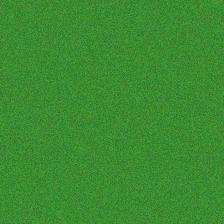
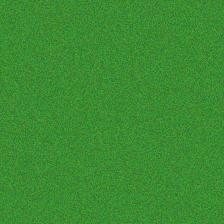
UI ready for testing

diff --git a/app.py b/app.py
@@ -1,0 +1,144 @@
+"""
+AgriSense — desktop app entry point.
+
+Runs a native webview window (no browser, no Chrome overhead) and exposes
+a JS-callable API that streams tokens from Ollama directly into the UI
+as they're generated.
+
+Memory footprint: ~80-150MB for the WebKitGTK window, vs 800MB-1.5GB
+for a Chrome-based Gradio setup.
+"""
+
+import json
+import threading
+import webview
+import requests
+
+from src.orchestrator import build_prompt_context, SYSTEM_PROMPT
+from src.llm import OLLAMA_BASE_URL, LLM_MODEL, is_ollama_running
+from src.vision import classify_leaf_image_from_base64
+
+
+class Api:
+    """
+    Exposed to JS as window.pywebview.api.*
+    Every public method here is callable directly from app.js.
+    """
+
+    def __init__(self):
+        self._window = None
+
+    def set_window(self, window):
+        self._window = window
+
+    # ---------- Status check ----------
+
+    def check_ollama_status(self):
+        running = is_ollama_running()
+        return {"running": running, "model": LLM_MODEL if running else None}
+
+    # ---------- Main streaming entry point ----------
+
+    def handle_query_stream(self, user_text: str, image_data_url: str | None):
+        """
+        Called from app.js. Runs orchestration (vision + RAG + DB lookups),
+        then streams the LLM response token-by-token back into the UI via
+        JS events. Runs in a background thread so the webview UI thread
+        never blocks.
+        """
+        thread = threading.Thread(
+            target=self._run_stream,
+            args=(user_text, image_data_url),
+            daemon=True,
+        )
+        thread.start()
+        return {"started": True}
+
+    def _run_stream(self, user_text: str, image_data_url: str | None):
+        try:
+            vision_tag = None
+            vision_result = None
+
+            # Run vision classification first if an image was attached
+            if image_data_url:
+                vision_result = classify_leaf_image_from_base64(image_data_url)
+                if vision_result and vision_result.get("confidence", 0) > 0.3:
+                    vision_tag = (
+                        f"Detected: {vision_result['label']} "
+                        f"({vision_result['confidence']:.0%} confidence)"
+                    )
+
+            # Build the full prompt using Phase 2-4 context (DB + RAG + vision)
+            full_prompt = build_prompt_context(user_text, vision_result)
+
+            # Signal the UI to swap skeleton -> live bubble
+            self._emit("agrisense:stream_start", {"visionTag": vision_tag})
+
+            # Stream directly from Ollama's /api/chat with stream=True
+            payload = {
+                "model": LLM_MODEL,
+                "messages": [
+                    {"role": "system", "content": SYSTEM_PROMPT},
+                    {"role": "user", "content": full_prompt},
+                ],
+                "stream": True,
+                "options": {
+                    "temperature": 0.3,
+                    "num_ctx": 2048,
+                    "num_predict": 512,
+                },
+            }
+
+            with requests.post(
+                f"{OLLAMA_BASE_URL}/api/chat",
+                json=payload,
+                stream=True,
+                timeout=180,
+            ) as resp:
+                resp.raise_for_status()
+                for line in resp.iter_lines():
+                    if not line:
+                        continue
+                    chunk = json.loads(line)
+                    token = chunk.get("message", {}).get("content", "")
+                    if token:
+                        self._emit("agrisense:stream_token", {"token": token})
+                    if chunk.get("done"):
+                        break
+
+            self._emit("agrisense:stream_end", {})
+
+        except requests.exceptions.ConnectionError:
+            self._emit(
+                "agrisense:stream_error",
+                {"message": "Can't reach Ollama. Run 'ollama serve' in a terminal and try again."},
+            )
+        except Exception as e:
+            self._emit("agrisense:stream_error", {"message": f"Error: {str(e)}"})
+
+    def _emit(self, event_name: str, detail: dict):
+        """Dispatch a CustomEvent in the webview's JS context."""
+        if not self._window:
+            return
+        detail_json = json.dumps(detail)
+        js = f"window.dispatchEvent(new CustomEvent('{event_name}', {{ detail: {detail_json} }}));"
+        self._window.evaluate_js(js)
+
+
+def main():
+    api = Api()
+    window = webview.create_window(
+        "AgriSense",
+        "ui/index.html",
+        js_api=api,
+        width=1180,
+        height=760,
+        min_size=(860, 560),
+        background_color="#FAFAF7",
+    )
+    api.set_window(window)
+    webview.start(debug=False)
+
+
+if __name__ == "__main__":
+    main()

diff --git a/src/database.py b/src/database.py
@@ -149,3 +149,97 @@ def get_full_crop_context(crop_name: str) -> str:
             lines.append(f"  - {p['region']}: ₦{p['price_per_kg_naira']}/kg | ₦{p['price_per_bag_naira']}/bag ({p['trend']}) — {p['market_name']}")
 
     return "\n".join(lines)
+
+
+def get_crop_info(crop_id_or_name) -> dict:
+    """Get general details for a crop by ID or name."""
+    if isinstance(crop_id_or_name, int):
+        conn = get_connection()
+        cur = conn.cursor()
+        cur.execute("SELECT * FROM crops WHERE id = ?", (crop_id_or_name,))
+        row = cur.fetchone()
+        conn.close()
+        return dict(row) if row else {}
+    else:
+        return get_crop_by_name(crop_id_or_name)
+
+
+def search_pest_by_name(name: str) -> dict:
+    """Look up a pest by name or local name."""
+    conn = get_connection()
+    cur = conn.cursor()
+    cur.execute("""
+        SELECT * FROM pests 
+        WHERE LOWER(name) LIKE LOWER(?) 
+           OR LOWER(local_name) LIKE LOWER(?)
+    """, (f"%{name}%", f"%{name}%"))
+    row = cur.fetchone()
+    conn.close()
+    return dict(row) if row else {}
+
+
+def get_pest_treatments(pest_id: int) -> list[dict]:
+    """Get all treatments for a pest by pest ID (alias for get_treatments_for_pest)."""
+    return get_treatments_for_pest(pest_id)
+
+
+def get_market_price(query: str) -> dict:
+    """
+    Search the query for crop and region mentions.
+    Returns the first matching market price as a dict, or {} if none.
+    """
+    # 1. Get all crops to search for their names in the query
+    crops = get_all_crops()
+    matched_crop = None
+    for crop in crops:
+        # Check if crop name or any of the local names are in the query
+        if crop['name'].lower() in query.lower():
+            matched_crop = crop
+            break
+        local_names = [n.strip() for n in crop.get('local_names', '').split(',') if n.strip()]
+        for ln in local_names:
+            if ln.lower() in query.lower():
+                matched_crop = crop
+                break
+                
+    if not matched_crop:
+        return {}
+        
+    # 2. Check if a region is mentioned
+    regions = ["Lagos", "Onitsha", "Ibadan", "Kano", "Abuja", "Kebbi", "Sokoto", "Kaduna"]
+    matched_region = None
+    for r in regions:
+        if r.lower() in query.lower():
+            matched_region = r
+            break
+            
+    # 3. Query market prices
+    conn = get_connection()
+    cur = conn.cursor()
+    if matched_region:
+        cur.execute("""
+            SELECT mp.*, c.name as crop_name FROM market_prices mp
+            JOIN crops c ON mp.crop_id = c.id
+            WHERE mp.crop_id = ? AND LOWER(mp.region) = LOWER(?)
+        """, (matched_crop['id'], matched_region))
+    else:
+        # Default to the first region available for that crop
+        cur.execute("""
+            SELECT mp.*, c.name as crop_name FROM market_prices mp
+            JOIN crops c ON mp.crop_id = c.id
+            WHERE mp.crop_id = ?
+            LIMIT 1
+        """, (matched_crop['id'],))
+        
+    row = cur.fetchone()
+    conn.close()
+    
+    if row:
+        r = dict(row)
+        return {
+            "crop": r["crop_name"],
+            "region": r["region"],
+            "price_per_kg_naira": r["price_per_kg_naira"],
+            "trend": r["trend"]
+        }
+    return {}

diff --git a/test_ochestrator.py b/test_ochestrator.py
@@ -1,20 +1,24 @@
 import sys
+import io
 sys.path.insert(0, '.')
+if sys.platform.startswith('win'):
+    sys.stdout.reconfigure(encoding='utf-8')
+    sys.stderr.reconfigure(encoding='utf-8')
 
 from src.orchestrator import handle_query
 
 print("=== Orchestrator Test ===\n")
 
 # Test 1: Plain text query, no image
-result = handle_query("My maize leaves are turning yellow, what should I do?")
-print("Test 1 — text only:")
-print(result["answer"])
-print(f"(had_context: {result['had_context']})\n")
+#result = handle_query("My maize leaves are turning yellow, what should I do?")
+#print("Test 1 — text only:")
+#print(result["answer"])
+#print(f"(had_context: {result['had_context']})\n")
 
 # Test 2: With an image (use a real test image path once Phase 4 model is ready)
-# result = handle_query("What's wrong with my cassava?", image_path="data/test_images/sample_leaf.jpg")
-# print("Test 2 — with image:")
-# print(result["answer"])
-# print(f"Vision result: {result['vision_result']}\n")
+result = handle_query("What's wrong with my cassava?", image_path="data\test_images\content_WhatsApp_Image_2021-05-10_at_5.54.59_AM_(1).jpeg")
+print("Test 2 — with image:")
+print(result["answer"])
+print(f"Vision result: {result['vision_result']}\n")
 
 print("=== Test complete ===")

diff --git a/src/vision.py b/src/vision.py
@@ -369,3 +369,19 @@ def is_vision_available() -> dict:
         size_mb = os.path.getsize(MODEL_PATH) / (1024*1024)
         return {"available": True, "mode": "onnx", "model_size_mb": round(size_mb, 1)}
     return {"available": True, "mode": "rule_based", "model_size_mb": 0}
+
+
+def classify_leaf_image(image_path: str) -> dict:
+    """
+    Classify a leaf image. Wraps analyze_plant_image to match orchestrator expectations.
+    """
+    res = analyze_plant_image(image_path)
+    if not res or not res.get("success"):
+        return {}
+    return {
+        "label": res["display_name"],
+        "confidence": res["confidence"] / 100.0,
+        "crop": res["crop"],
+        "severity": res["severity"],
+        "vision_context": res["vision_context"]
+    }

diff --git a/test_vision.py b/test_vision.py
@@ -1,5 +1,10 @@
 import sys
+import io
 sys.path.insert(0, '.')
+if sys.platform.startswith('win'):
+    sys.stdout.reconfigure(encoding='utf-8')
+    sys.stderr.reconfigure(encoding='utf-8')
+
 from src.vision import analyze_plant_image, is_vision_available
 from PIL import Image, ImageDraw
 import numpy as np
@@ -35,9 +40,11 @@ print()
 
 # Run analysis on each
 test_images = [
-    ("data/test_images/yellow_leaf.jpg", "Yellow leaf"),
-    ("data/test_images/green_leaf.jpg",  "Green leaf"),
-    ("data/test_images/brown_patch.jpg", "Brown patch"),
+    #("data/test_images/green_leaf.jpg",  "Green leaf"),
+    #("data/test_images/brown_patch.jpg", "Brown patch"),
+    ("data/test_images/content_WhatsApp_Image_2021-05-10_at_5.54.59_AM_(1).jpeg", "Real cassava leaf image"),
+    ("data/test_images/plant_disease_samples/train_sample_0_Soybean___healthy.png", "Soybean healthy"),
+    ("data/test_images/plant_disease_samples/train_sample_4_Tomato___Bacterial_spot.png", "Tomato bacterial spot"),
 ]
 
 for path, label in test_images:

diff --git a/src/orchestrator.py b/src/orchestrator.py
@@ -1,5 +1,5 @@
-from llm import chat 
-from rag import search as query_knowledge
+from src.llm import chat 
+from src.rag import search as query_knowledge
 from src.database import (
     get_crop_info,
     get_pest_treatments,
@@ -55,7 +55,7 @@ def handle_query(user_text: str, image_path: str = None) -> dict:
     # Step 2: RAG retrieval from ChromaDB for general agronomic knowledge
     rag_results = query_knowledge(user_text, n_results=3)
     if rag_results:
-        context_blocks.append("[Reference knowledge] " + " | ".join(rag_results))
+        context_blocks.append("[Reference knowledge] " + " | ".join(r["text"] for r in rag_results))
 
     # Step 3: Structured lookups — try to detect crop/price mentions
     # (simple keyword check; can be made smarter later)

diff --git a/test_phase2.py b/test_phase2.py
@@ -1,3 +1,8 @@
+import sys
+import io
+if sys.platform.startswith('win'):
+    sys.stdout.reconfigure(encoding='utf-8')
+    sys.stderr.reconfigure(encoding='utf-8')
 
 from src.database import get_full_crop_context, search_pests_by_symptom
 print(get_full_crop_context('cassava'))

diff --git a/test_phase3.py b/test_phase3.py
@@ -1,6 +1,11 @@
 
 import sys
+import io
 sys.path.insert(0, '.')
+if sys.platform.startswith('win'):
+    sys.stdout.reconfigure(encoding='utf-8')
+    sys.stderr.reconfigure(encoding='utf-8')
+
 from src.rag import retrieve_context
 
 # Test 1: Symptom query

diff --git a/test_phase1.py b/test_phase1.py
@@ -1,5 +1,9 @@
 import sys
+import io
 sys.path.insert(0, '.')
+if sys.platform.startswith('win'):
+    sys.stdout.reconfigure(encoding='utf-8')
+    sys.stderr.reconfigure(encoding='utf-8')
 
 from src.llm import chat, embed, is_ollama_running
 

diff --git a/src/rag.py b/src/rag.py
@@ -1,7 +1,7 @@
 import os
 import chromadb
 from chromadb.config import Settings
-from llm import embed
+from src.llm import embed
 
 CHROMA_PATH = os.path.join(os.path.dirname(__file__), '..', 'data', 'chroma_db')
 COLLECTION_NAME = "agrisense_knowledge"